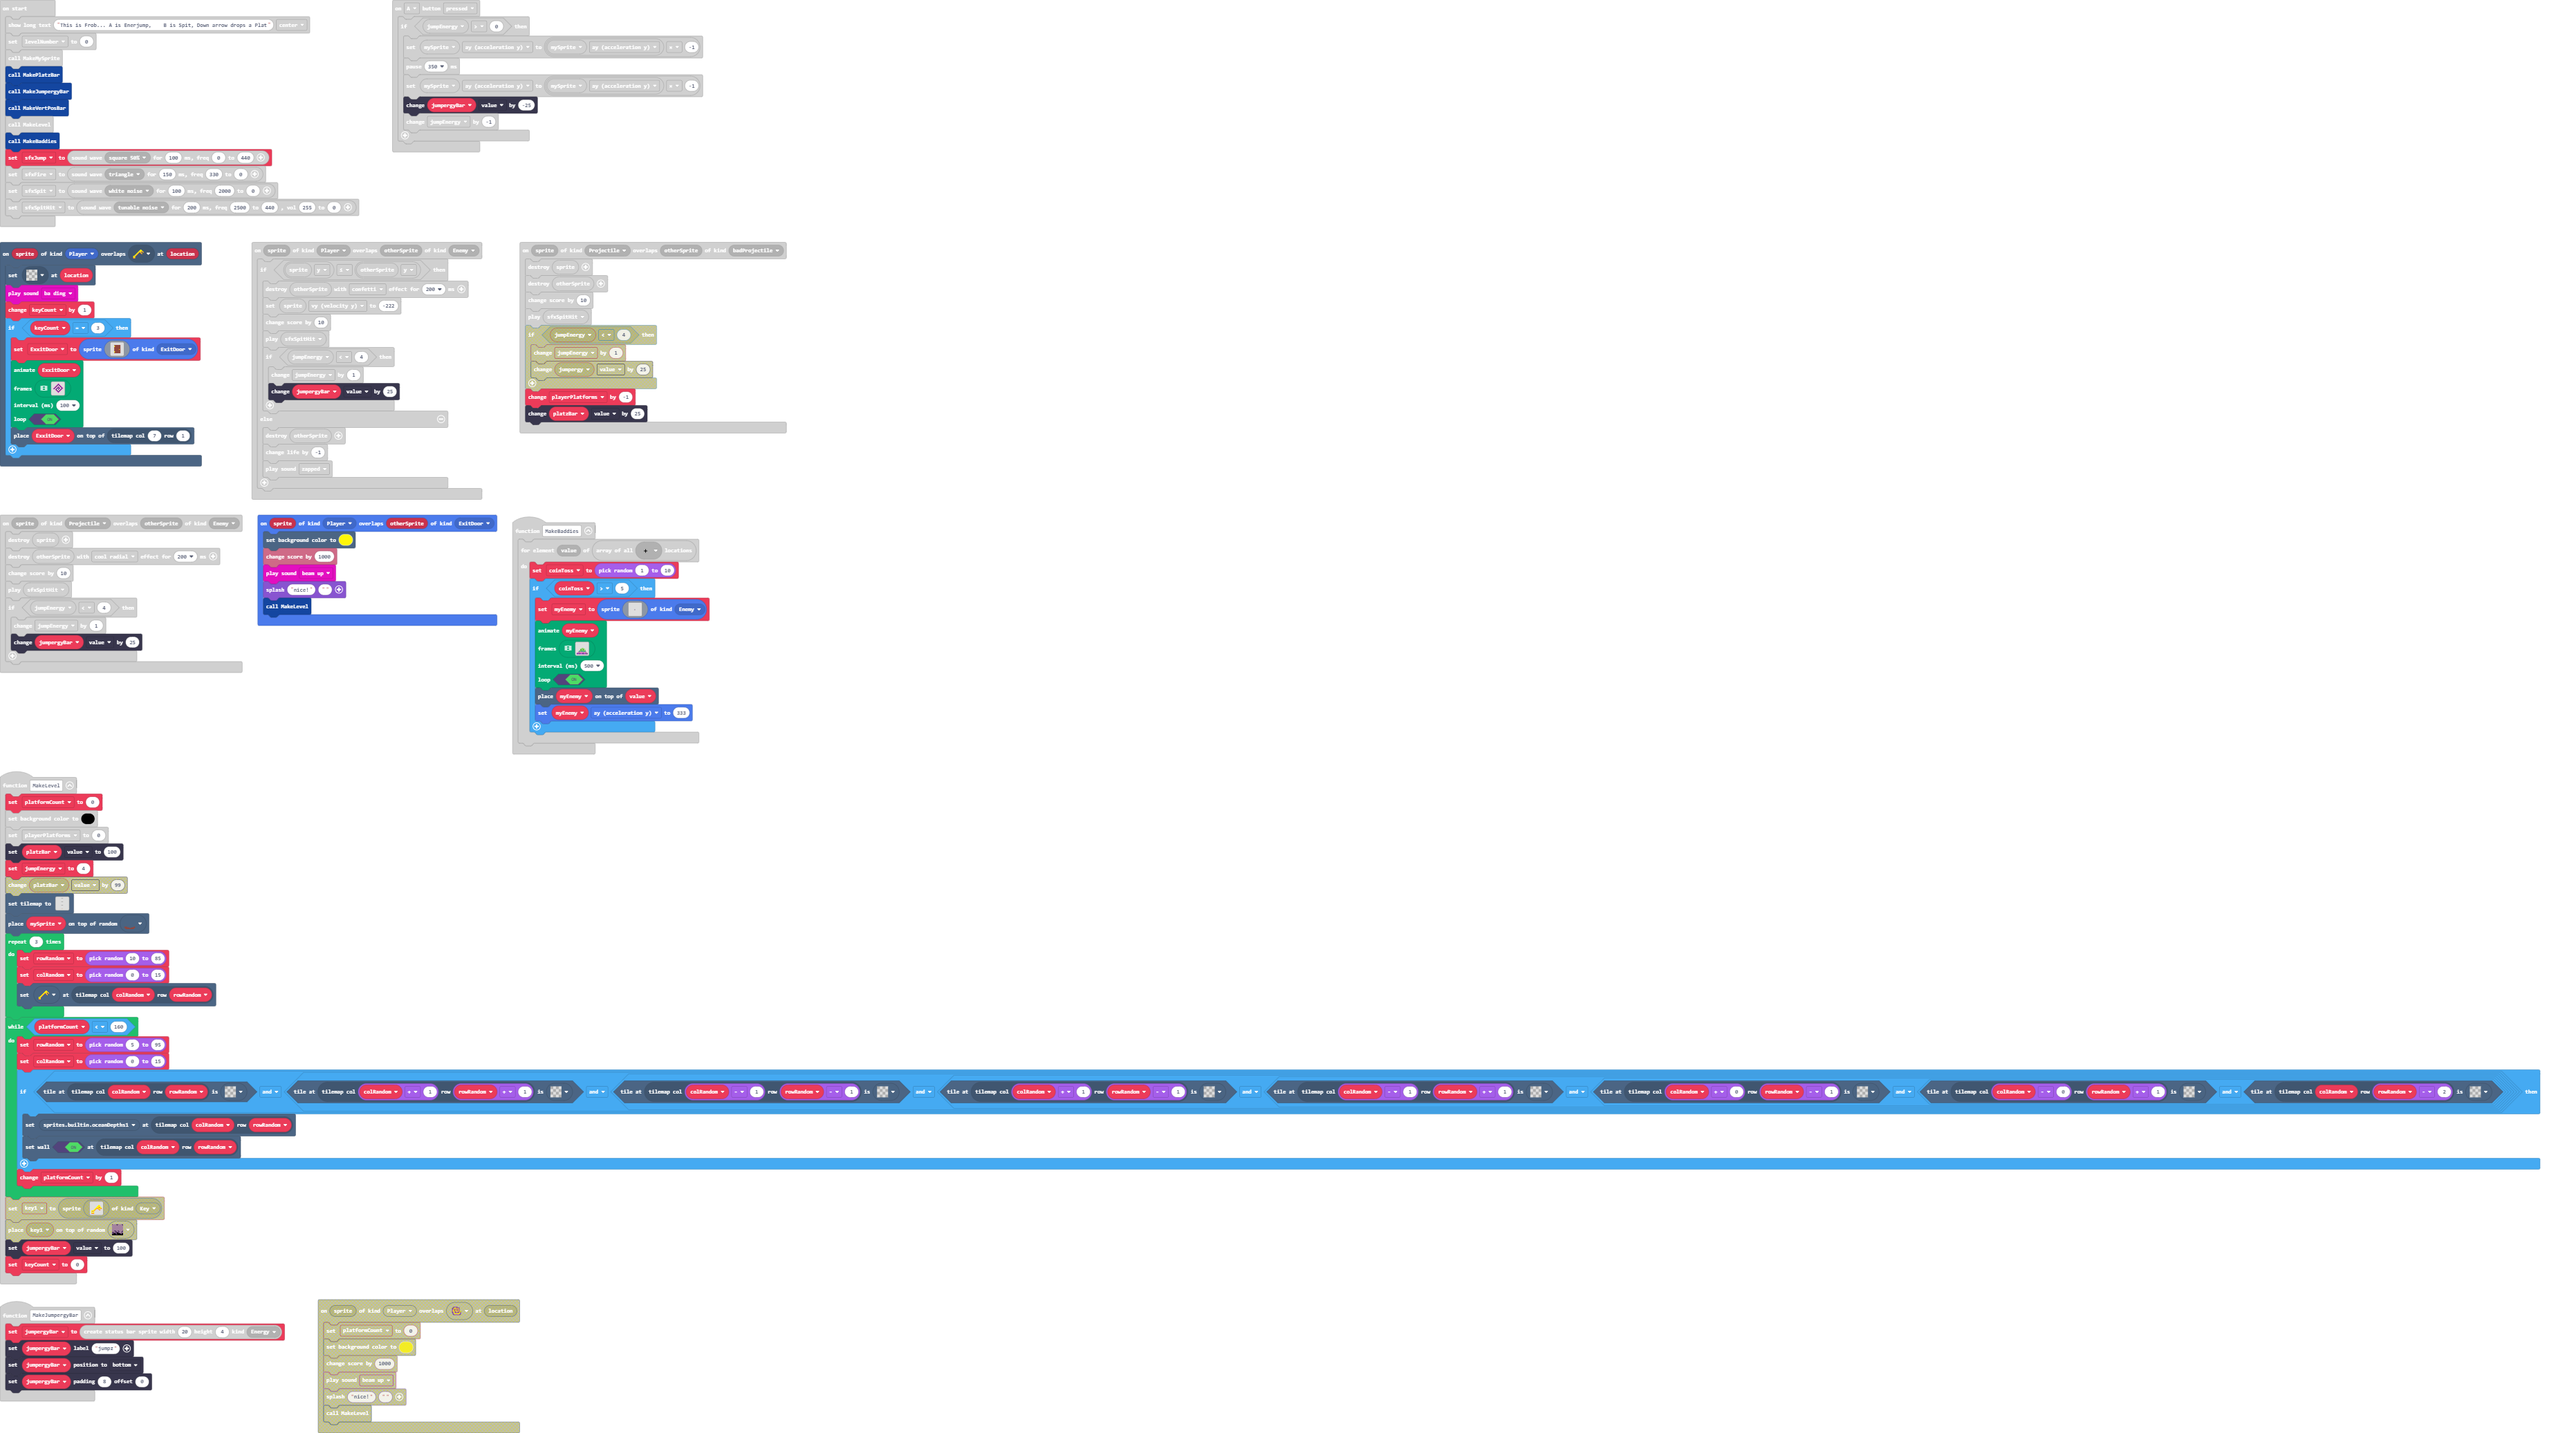
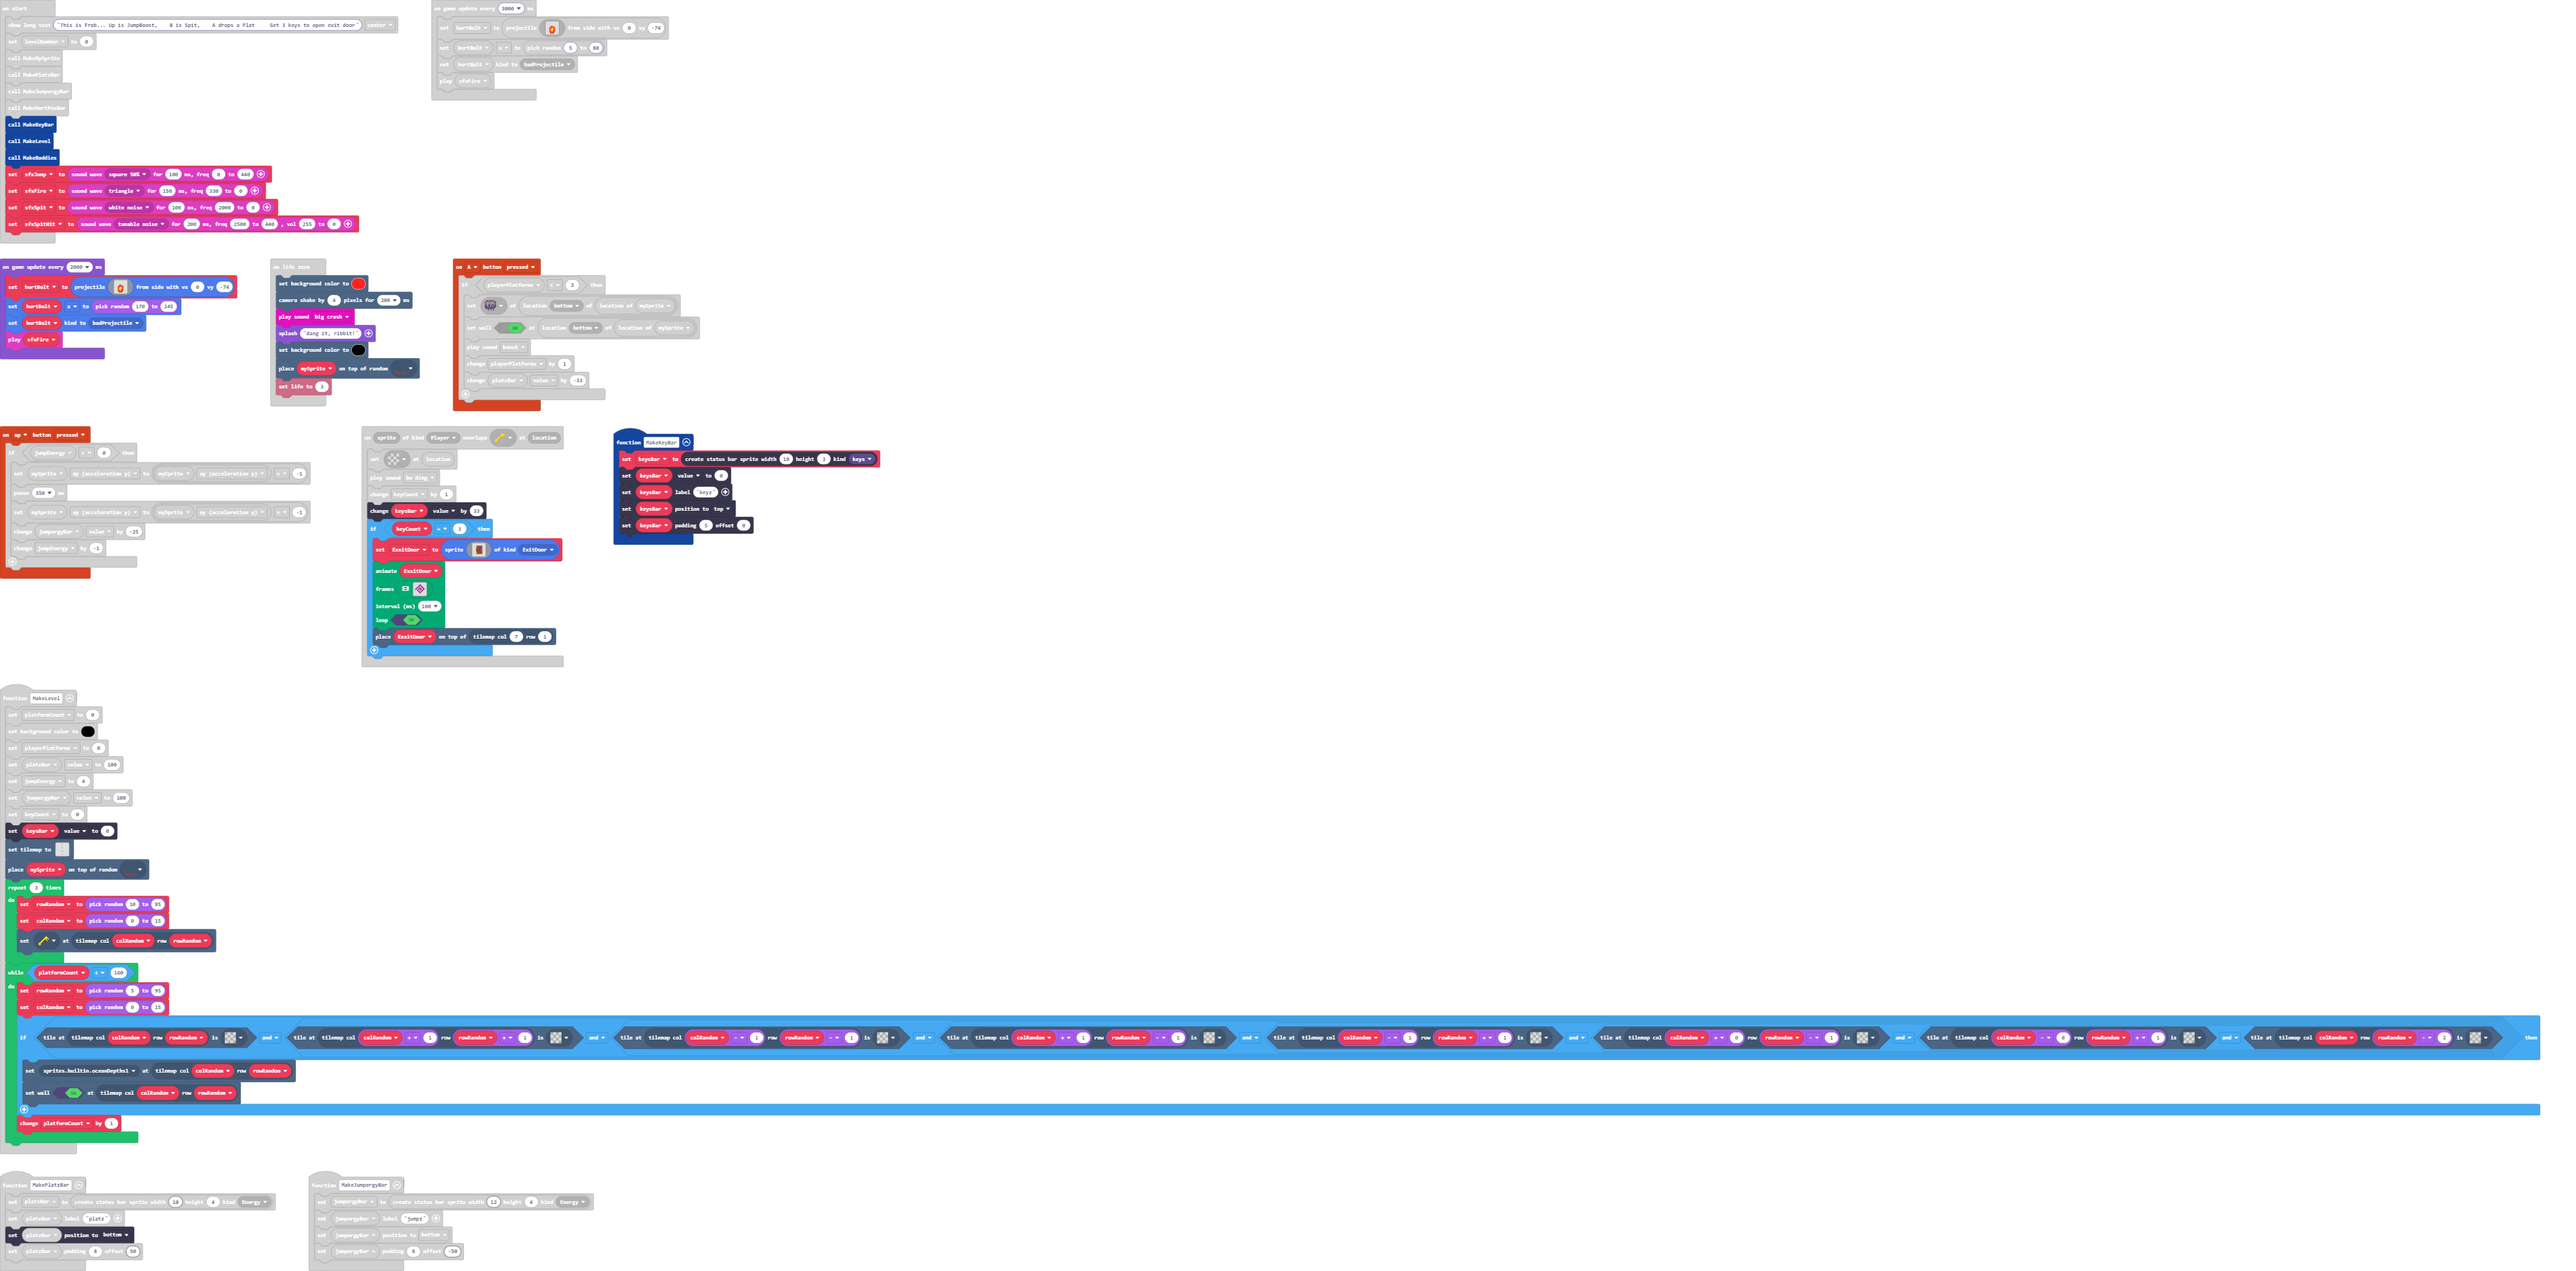
frob talks

Changed region(s): [[0.0, 0.5269, 0.9965, 1.0], [0.0, 0.0, 0.3426, 0.5269]]

diff --git a/main.ts b/main.ts
@@ -3,6 +3,18 @@ namespace SpriteKind {
     export const Key = SpriteKind.create()
     export const ExitDoor = SpriteKind.create()
 }
+namespace StatusBarKind {
+    export const keys = StatusBarKind.create()
+}
+controller.up.onEvent(ControllerButtonEvent.Pressed, function () {
+    if (jumpEnergy > 0) {
+        mySprite.ay = mySprite.ay * -1
+        pause(350)
+        mySprite.ay = mySprite.ay * -1
+        jumpergyBar.value += -25
+        jumpEnergy += -1
+    }
+})
 controller.B.onEvent(ControllerButtonEvent.Pressed, function () {
     if (facingLeft == 1) {
         frogSpit = sprites.createProjectileFromSprite(img`
@@ -54,24 +66,25 @@ sprites.onOverlap(SpriteKind.Player, SpriteKind.ExitDoor, function (sprite, othe
     MakeLevel()
 })
 function MakePlatzBar () {
-    platzBar = statusbars.create(20, 4, StatusBarKind.Energy)
+    platzBar = statusbars.create(10, 4, StatusBarKind.Energy)
     platzBar.setLabel("platz")
-    platzBar.positionDirection(CollisionDirection.Top)
-    platzBar.setOffsetPadding(0, 8)
+    platzBar.positionDirection(CollisionDirection.Bottom)
+    platzBar.setOffsetPadding(50, 8)
 }
 controller.A.onEvent(ControllerButtonEvent.Pressed, function () {
-    if (jumpEnergy > 0) {
-        mySprite.ay = mySprite.ay * -1
-        pause(350)
-        mySprite.ay = mySprite.ay * -1
-        jumpergyBar.value += -25
-        jumpEnergy += -1
+    if (playerPlatforms < 3) {
+        tiles.setTileAt(tiles.locationInDirection(tiles.locationOfSprite(mySprite), CollisionDirection.Bottom), assets.tile`myTile1`)
+        tiles.setWallAt(tiles.locationInDirection(tiles.locationOfSprite(mySprite), CollisionDirection.Bottom), true)
+        music.knock.play()
+        playerPlatforms += 1
+        platzBar.value += -33
     }
 })
 scene.onOverlapTile(SpriteKind.Player, assets.tile`myTile3`, function (sprite, location) {
     tiles.setTileAt(location, assets.tile`transparency16`)
     music.baDing.play()
     keyCount += 1
+    keysBar.value += 33
     if (keyCount == 3) {
         ExxitDoor = sprites.create(img`
             . . . . . . . . . . . . . . . . 
@@ -288,15 +301,6 @@ function MakeMySprite () {
     mySprite.ay = 500
     scene.cameraFollowSprite(mySprite)
 }
-controller.down.onEvent(ControllerButtonEvent.Pressed, function () {
-    if (playerPlatforms < 3) {
-        tiles.setTileAt(tiles.locationInDirection(tiles.locationOfSprite(mySprite), CollisionDirection.Bottom), assets.tile`myTile1`)
-        tiles.setWallAt(tiles.locationInDirection(tiles.locationOfSprite(mySprite), CollisionDirection.Bottom), true)
-        music.knock.play()
-        playerPlatforms += 1
-        platzBar.value += -33
-    }
-})
 function MakeLevel () {
     platformCount = 0
     scene.setBackgroundColor(15)
@@ -305,6 +309,7 @@ function MakeLevel () {
     jumpEnergy = 4
     jumpergyBar.value = 100
     keyCount = 0
+    keysBar.value = 0
     tiles.setTilemap(tilemap`level2`)
     tiles.placeOnRandomTile(mySprite, assets.tile`myTile`)
     for (let index = 0; index < 3; index++) {
@@ -323,8 +328,12 @@ function MakeLevel () {
     }
 }
 info.onLifeZero(function () {
-    tiles.placeOnRandomTile(mySprite, assets.tile`myTile`)
+    scene.setBackgroundColor(2)
+    scene.cameraShake(4, 200)
     music.bigCrash.play()
+    game.splash("dang it, ribbit!")
+    scene.setBackgroundColor(15)
+    tiles.placeOnRandomTile(mySprite, assets.tile`myTile`)
     info.setLife(3)
 })
 function MakeBaddies () {
@@ -395,10 +404,17 @@ function MakeBaddies () {
     }
 }
 function MakeJumpergyBar () {
-    jumpergyBar = statusbars.create(20, 4, StatusBarKind.Energy)
+    jumpergyBar = statusbars.create(12, 4, StatusBarKind.Energy)
     jumpergyBar.setLabel("jumpz")
     jumpergyBar.positionDirection(CollisionDirection.Bottom)
-    jumpergyBar.setOffsetPadding(0, 8)
+    jumpergyBar.setOffsetPadding(-50, 8)
+}
+function MakeKeyBar () {
+    keysBar = statusbars.create(10, 3, StatusBarKind.keys)
+    keysBar.value = 0
+    keysBar.setLabel("keyz")
+    keysBar.positionDirection(CollisionDirection.Top)
+    keysBar.setOffsetPadding(0, 5)
 }
 sprites.onOverlap(SpriteKind.Projectile, SpriteKind.Enemy, function (sprite, otherSprite) {
     sprite.destroy()
@@ -433,23 +449,25 @@ let colRandom = 0
 let rowRandom = 0
 let platformCount = 0
 let vertBar: StatusBarSprite = null
-let playerPlatforms = 0
 let ExxitDoor: Sprite = null
+let keysBar: StatusBarSprite = null
 let keyCount = 0
-let jumpergyBar: StatusBarSprite = null
-let jumpEnergy = 0
+let playerPlatforms = 0
 let platzBar: StatusBarSprite = null
-let mySprite: Sprite = null
 let frogSpit: Sprite = null
 let facingLeft = 0
+let jumpergyBar: StatusBarSprite = null
+let mySprite: Sprite = null
+let jumpEnergy = 0
 let sfxSpitHit: SoundBuffer = null
 let sfxSpit: SoundBuffer = null
-game.showLongText("This is Frob... A is Enerjump,    B is Spit, Down arrow drops a Plat", DialogLayout.Center)
+game.showLongText("This is Frob... Up is JumpBoost,    B is Spit,    A drops a Plat     Get 3 keys to open exit door", DialogLayout.Center)
 let levelNumber = 0
 MakeMySprite()
 MakePlatzBar()
 MakeJumpergyBar()
 MakeVertPosBar()
+MakeKeyBar()
 MakeLevel()
 MakeBaddies()
 let sfxJump = soundEffects.createSound(soundEffects.waveNumber(WaveType.Square50), 100, 0, 440)
@@ -617,7 +635,7 @@ game.onUpdate(function () {
         sfxJump.play()
     }
 })
-game.onUpdateInterval(1500, function () {
+game.onUpdateInterval(2000, function () {
     hurtBolt = sprites.createProjectileFromSide(img`
         . . . . . . . . . . . . . . . . 
         . . . . . . . . . . . . . . . . 
@@ -636,7 +654,30 @@ game.onUpdateInterval(1500, function () {
         . . . . . 2 2 4 2 2 c . . . . . 
         . . . . . c 2 2 2 c . . . . . . 
         `, 0, -74)
-    hurtBolt.x = randint(10, 240)
+    hurtBolt.x = randint(170, 245)
+    hurtBolt.setKind(SpriteKind.badProjectile)
+    sfxFire.play()
+})
+game.onUpdateInterval(3000, function () {
+    hurtBolt = sprites.createProjectileFromSide(img`
+        . . . . . . . . . . . . . . . . 
+        . . . . . . . . . . . . . . . . 
+        . . . . . . . . . . . . . . . . 
+        . . . . . . . . . . . . . . . . 
+        . . . . . . . . . . . . . . . . 
+        . . . . . . 2 2 2 . . . . . . . 
+        . . . . . 2 2 2 2 2 2 . . . . . 
+        . . . . 2 2 4 4 4 4 2 2 . . . . 
+        . . . . 2 2 4 5 5 4 2 2 . . . . 
+        . . . . 2 4 4 5 5 4 4 2 . . . . 
+        . . . . 2 4 5 5 5 4 4 2 . . . . 
+        . . . . 2 4 5 5 4 4 2 2 . . . . 
+        . . . . 2 2 4 5 4 2 2 c . . . . 
+        . . . . c 2 4 4 4 2 2 . . . . . 
+        . . . . . 2 2 4 2 2 c . . . . . 
+        . . . . . c 2 2 2 c . . . . . . 
+        `, 0, -74)
+    hurtBolt.x = randint(5, 80)
     hurtBolt.setKind(SpriteKind.badProjectile)
     sfxFire.play()
 })
